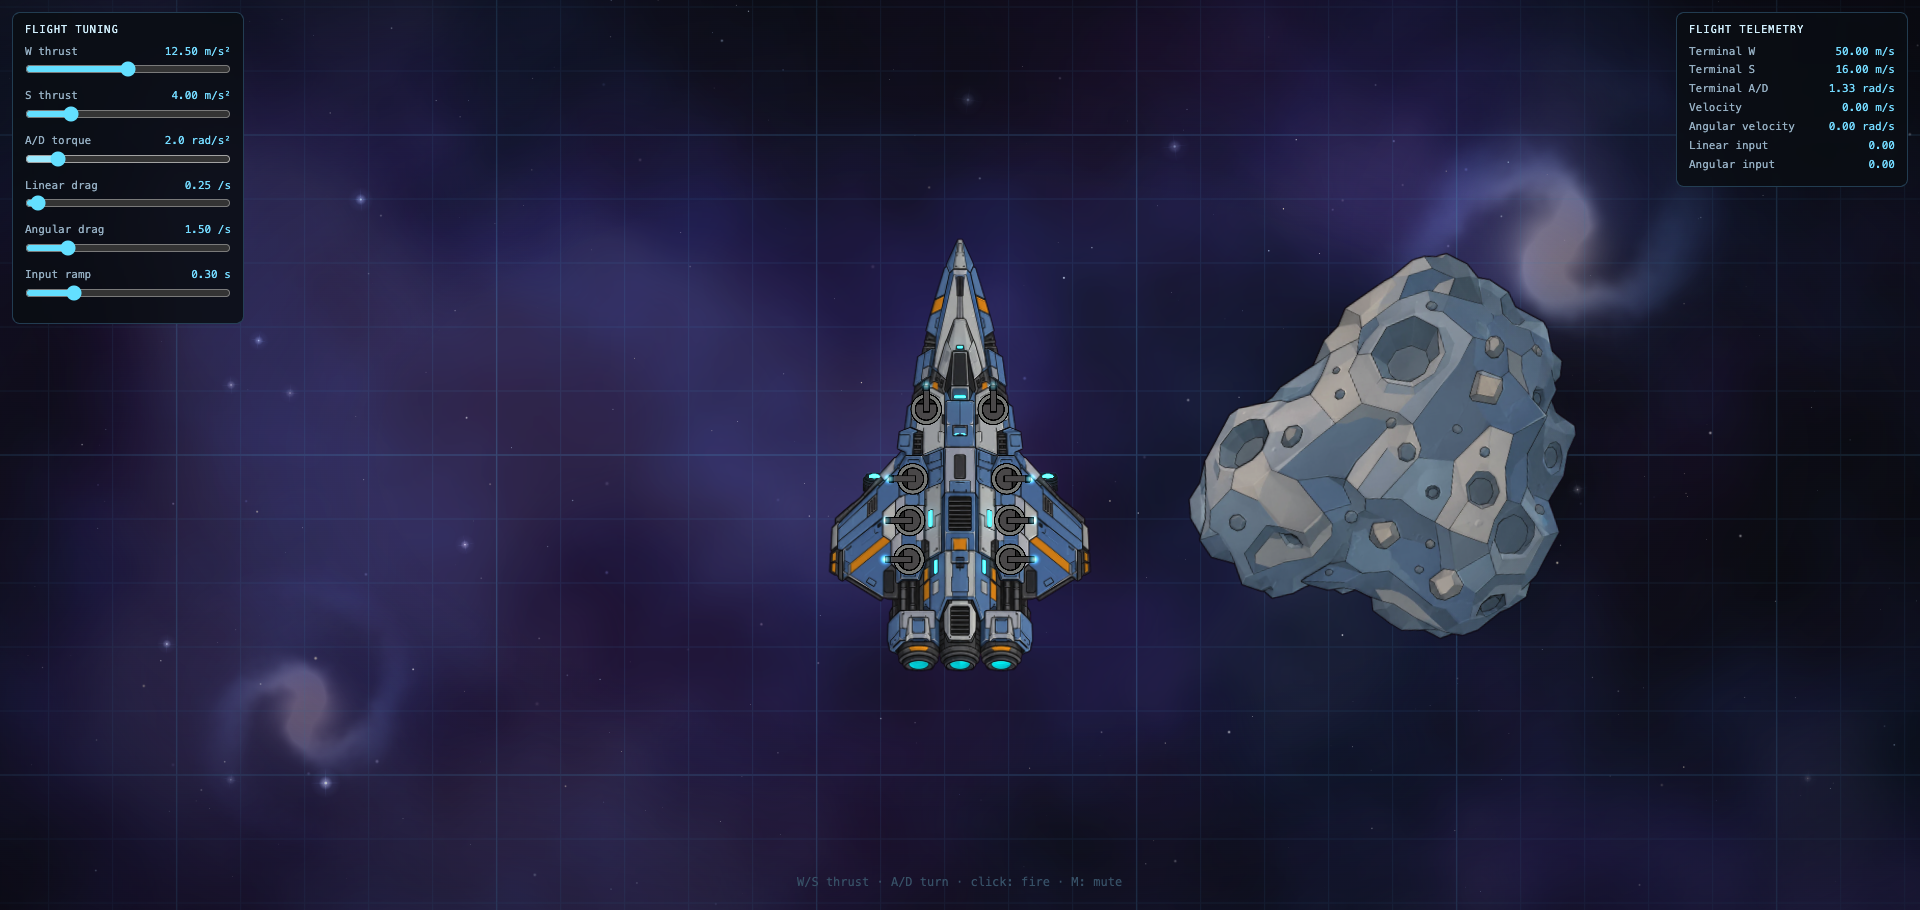
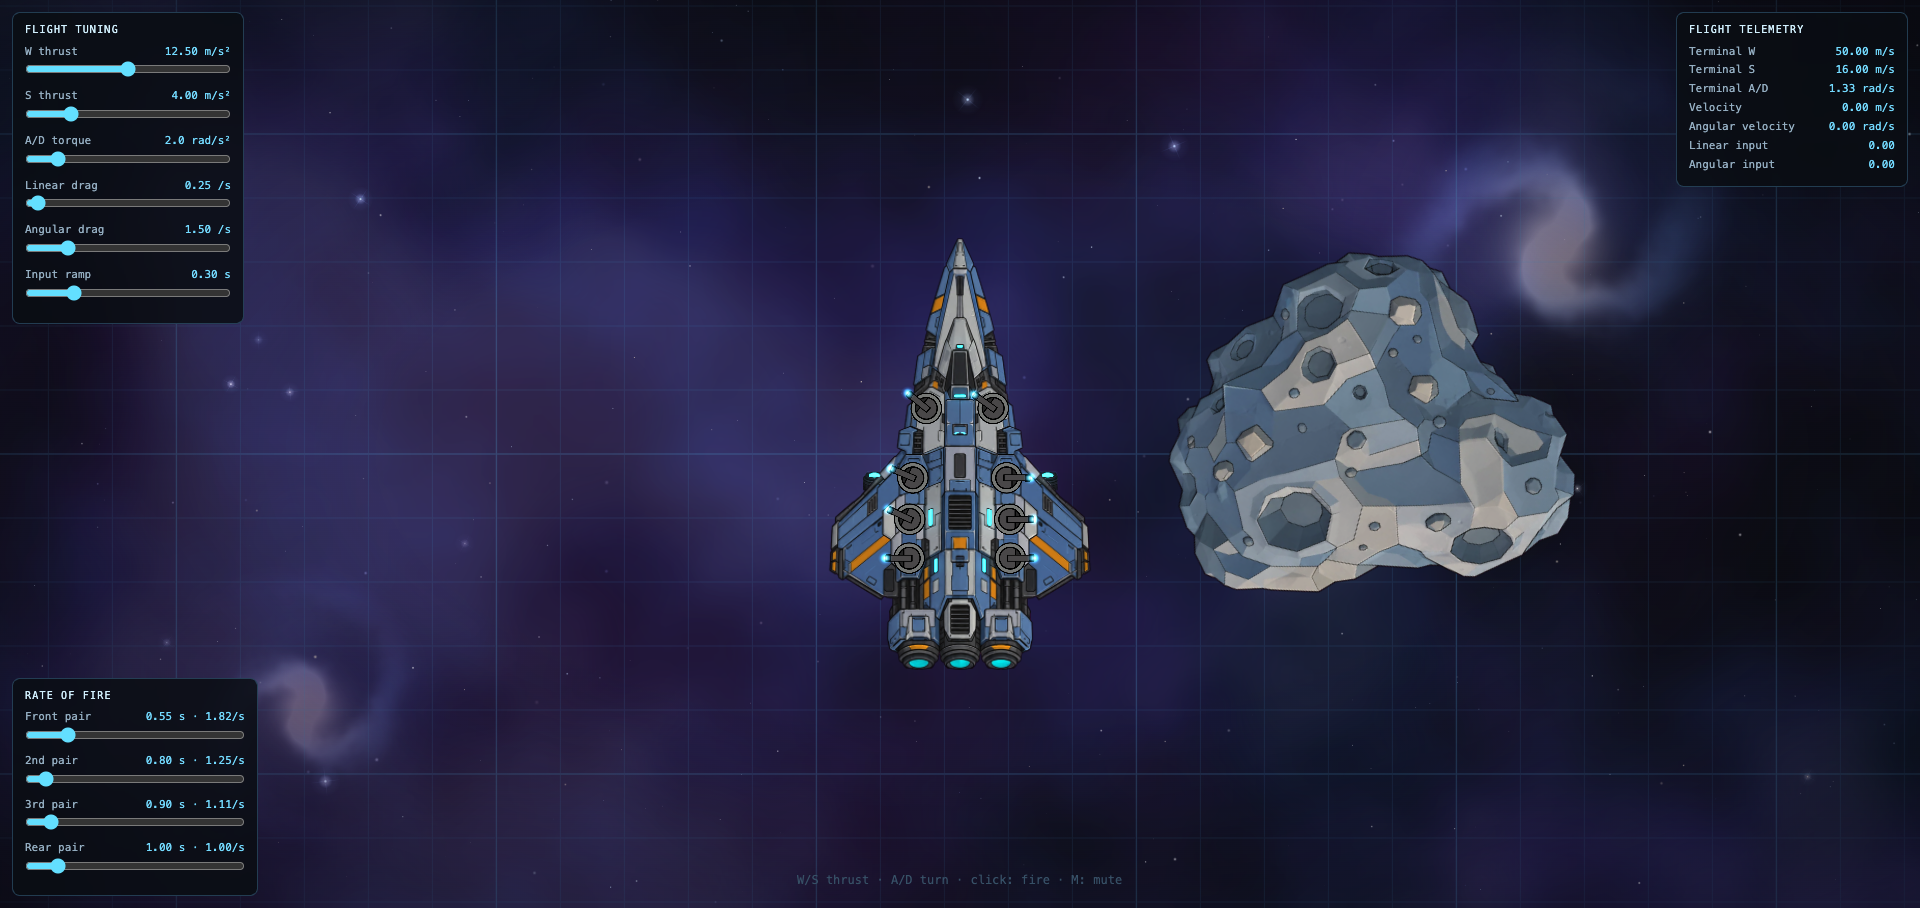
feat: add per-pair rate of fire tuner

diff --git a/src/app/weapon-tuner.ts b/src/app/weapon-tuner.ts
@@ -1,0 +1,78 @@
+import { WEAPON_PAIRS, WEAPON_SHOT_DELAYS } from './weapons';
+
+const PAIR_LABELS = ['Front pair', '2nd pair', '3rd pair', 'Rear pair'] as const;
+const MAX_COOLDOWN = 2.5;
+
+const PANEL_STYLE: Partial<CSSStyleDeclaration> = {
+  position: 'fixed',
+  left: '12px',
+  bottom: '12px',
+  zIndex: '10',
+  width: '246px',
+  padding: '10px 12px',
+  borderRadius: '8px',
+  border: '1px solid rgba(90, 160, 200, 0.35)',
+  background: 'rgba(5, 9, 18, 0.86)',
+  color: '#9fb7c9',
+  font: '11px/1.35 ui-monospace, SFMono-Regular, Menlo, monospace',
+  backdropFilter: 'blur(6px)',
+  userSelect: 'none',
+};
+
+export interface WeaponTuner {
+  element: HTMLElement;
+  destroy(): void;
+}
+
+export function createWeaponTuner(cooldowns: number[]): WeaponTuner {
+  const root = document.createElement('div');
+  Object.assign(root.style, PANEL_STYLE);
+
+  const title = document.createElement('div');
+  title.textContent = 'RATE OF FIRE';
+  title.style.cssText = 'margin-bottom:8px;color:#d8f3ff;letter-spacing:0.12em;font-size:10px;';
+  root.append(title);
+
+  WEAPON_PAIRS.forEach((pair, index) => {
+    const minimum = Math.max(0.15, (WEAPON_SHOT_DELAYS[pair.sounds[0]!] ?? 0) + 0.05);
+    const row = document.createElement('div');
+    row.style.cssText = 'margin:6px 0;';
+
+    const header = document.createElement('div');
+    header.style.cssText = 'display:flex;justify-content:space-between;gap:8px;margin-bottom:2px;';
+    const label = document.createElement('span');
+    label.textContent = PAIR_LABELS[index] ?? `Pair ${index + 1}`;
+    const readout = document.createElement('span');
+    readout.style.cssText = 'color:#7fdfff;font-variant-numeric:tabular-nums;';
+
+    const syncReadout = (cooldown: number): void => {
+      readout.textContent = `${cooldown.toFixed(2)} s · ${(1 / cooldown).toFixed(2)}/s`;
+    };
+
+    const input = document.createElement('input');
+    input.type = 'range';
+    input.min = String(minimum);
+    input.max = String(MAX_COOLDOWN);
+    input.step = '0.01';
+    input.value = String(cooldowns[index] ?? pair.cooldown);
+    input.setAttribute('aria-label', `${PAIR_LABELS[index]} cooldown`);
+    input.style.cssText = 'width:100%;margin:0;accent-color:#6fe3ff;cursor:pointer;';
+    input.addEventListener('input', () => {
+      const cooldown = Number(input.value);
+      cooldowns[index] = cooldown;
+      syncReadout(cooldown);
+    });
+    syncReadout(cooldowns[index] ?? pair.cooldown);
+
+    header.append(label, readout);
+    row.append(header, input);
+    root.append(row);
+  });
+
+  return {
+    element: root,
+    destroy(): void {
+      root.remove();
+    },
+  };
+}

diff --git a/src/app/lighting-scene.ts b/src/app/lighting-scene.ts
@@ -18,6 +18,7 @@ import { createTurrets } from './turrets';
 import { createBullets } from './bullets';
 import { BULLET_SPEED_METERS_PER_SECOND } from './bullet-math';
 import { WEAPON_PAIRS, WEAPON_SHOT_DELAYS, nextPairVariant } from './weapons';
+import { createWeaponTuner } from './weapon-tuner';
 
 export interface Scene {
   setMuted(muted: boolean): void;
@@ -98,6 +99,7 @@ export async function createScene(app: Application, audio: AudioManager): Promis
 
   let firing = false;
   const pairCooldowns = [0, 0, 0, 0];
+  const weaponCooldowns = WEAPON_PAIRS.map((pair) => pair.cooldown);
   const pairCursors = [0, 0, 0, 0];
   const pendingShots: Array<{ pairIndex: number; remaining: number; total: number }> = [];
 
@@ -170,7 +172,7 @@ export async function createScene(app: Application, audio: AudioManager): Promis
       pairCooldowns[index] = Math.max(0, (pairCooldowns[index] ?? 0) - dt);
       if (!firing || !active[index] || (pairCooldowns[index] ?? 0) > 0) continue;
       fireWeapon(index);
-      const cooldown = WEAPON_PAIRS[index]?.cooldown ?? 1;
+      const cooldown = weaponCooldowns[index] ?? 1;
       pairCooldowns[index] = cooldown * (0.94 + Math.random() * 0.12);
     }
   };
@@ -409,6 +411,9 @@ export async function createScene(app: Application, audio: AudioManager): Promis
   const flightTuner = createFlightTuner(tuning);
   document.body.append(flightTuner.element);
 
+  const weaponTuner = createWeaponTuner(weaponCooldowns);
+  document.body.append(weaponTuner.element);
+
   const telemetry = createFlightTelemetry(flight, tuning);
   document.body.append(telemetry.element);
 
@@ -442,6 +447,7 @@ export async function createScene(app: Application, audio: AudioManager): Promis
       window.removeEventListener('keyup', onKeyUp);
       window.removeEventListener('blur', onBlur);
       flightTuner.destroy();
+      weaponTuner.destroy();
       telemetry.destroy();
       turrets.destroy();
       bullets.destroy();

diff --git a/README.md b/README.md
@@ -63,6 +63,7 @@ src/
   app/turrets.ts          Eight turret mounts with finite-speed mouse tracking
   app/turret-aim.ts       Pure angular aim physics (tested)
   app/weapons.ts          Per-pair weapon sound pools + cadence
+  app/weapon-tuner.ts     Live rate-of-fire sliders
   app/bullets.ts          Pooled 1 m glowing tracers (100 m range)
   app/bullet-math.ts      Bullet range/fade math (tested)
   app/world-scale.ts      Metres ↔ pixels conversion (64 px per metre)
@@ -102,7 +103,9 @@ docs/                     Architecture decisions, reference art and agent workfl
   galaxies are fixed to the sky.
 - The top-left **FLIGHT TUNING** panel has live sliders for thrust, torque, linear/angular drag
   and input ramp. The top-right **FLIGHT TELEMETRY** panel shows terminal W/S/A-D speeds,
-  current velocity, angular velocity, and ramped inputs (all linear units in metres).
+  current velocity, angular velocity, and ramped inputs (all linear units in metres). The
+  bottom-left **RATE OF FIRE** panel tunes the cooldown of each weapon pair, clamped to the
+  pair's charge duration.
 - Eight turrets track the mouse with finite angular speed and limited cones: front pair forward, middle four sideways, rear pair side-to-rear. Targets outside a cone are ignored, so that turret holds its current aim instead of sweeping along the boundary.
 - **Scroll** zooms out from the default 1× (`0.02×–1×`, 50× max zoom-out).
   Camera dragging and click-to-reset are intentionally disabled.

diff --git a/AGENTS.md b/AGENTS.md
@@ -66,6 +66,7 @@ behaviour, also run `pnpm browser:inspect` and check the screenshot.
 - `src/app/turrets.ts` — eight turret mounts with finite-speed mouse tracking, per-mount aiming cones, and charge glows at the barrel tips.
 - `src/app/turret-aim.ts` — pure angular spring-damper aim, unit-tested.
 - `src/app/weapons.ts` — clean turret-pair sound pools, cadence, and per-sound tracer delays.
+- `src/app/weapon-tuner.ts` — live per-pair rate-of-fire sliders.
 - `src/app/bullets.ts` — pooled 1 m glowing tracers with 100 m range and 50 m fade.
 - `src/app/bullet-math.ts` — pure bullet range/fade math, unit-tested.
 - `src/app/lit-sprite.ts` — custom normal-map Mesh shader (directional light, emissive/glow).
